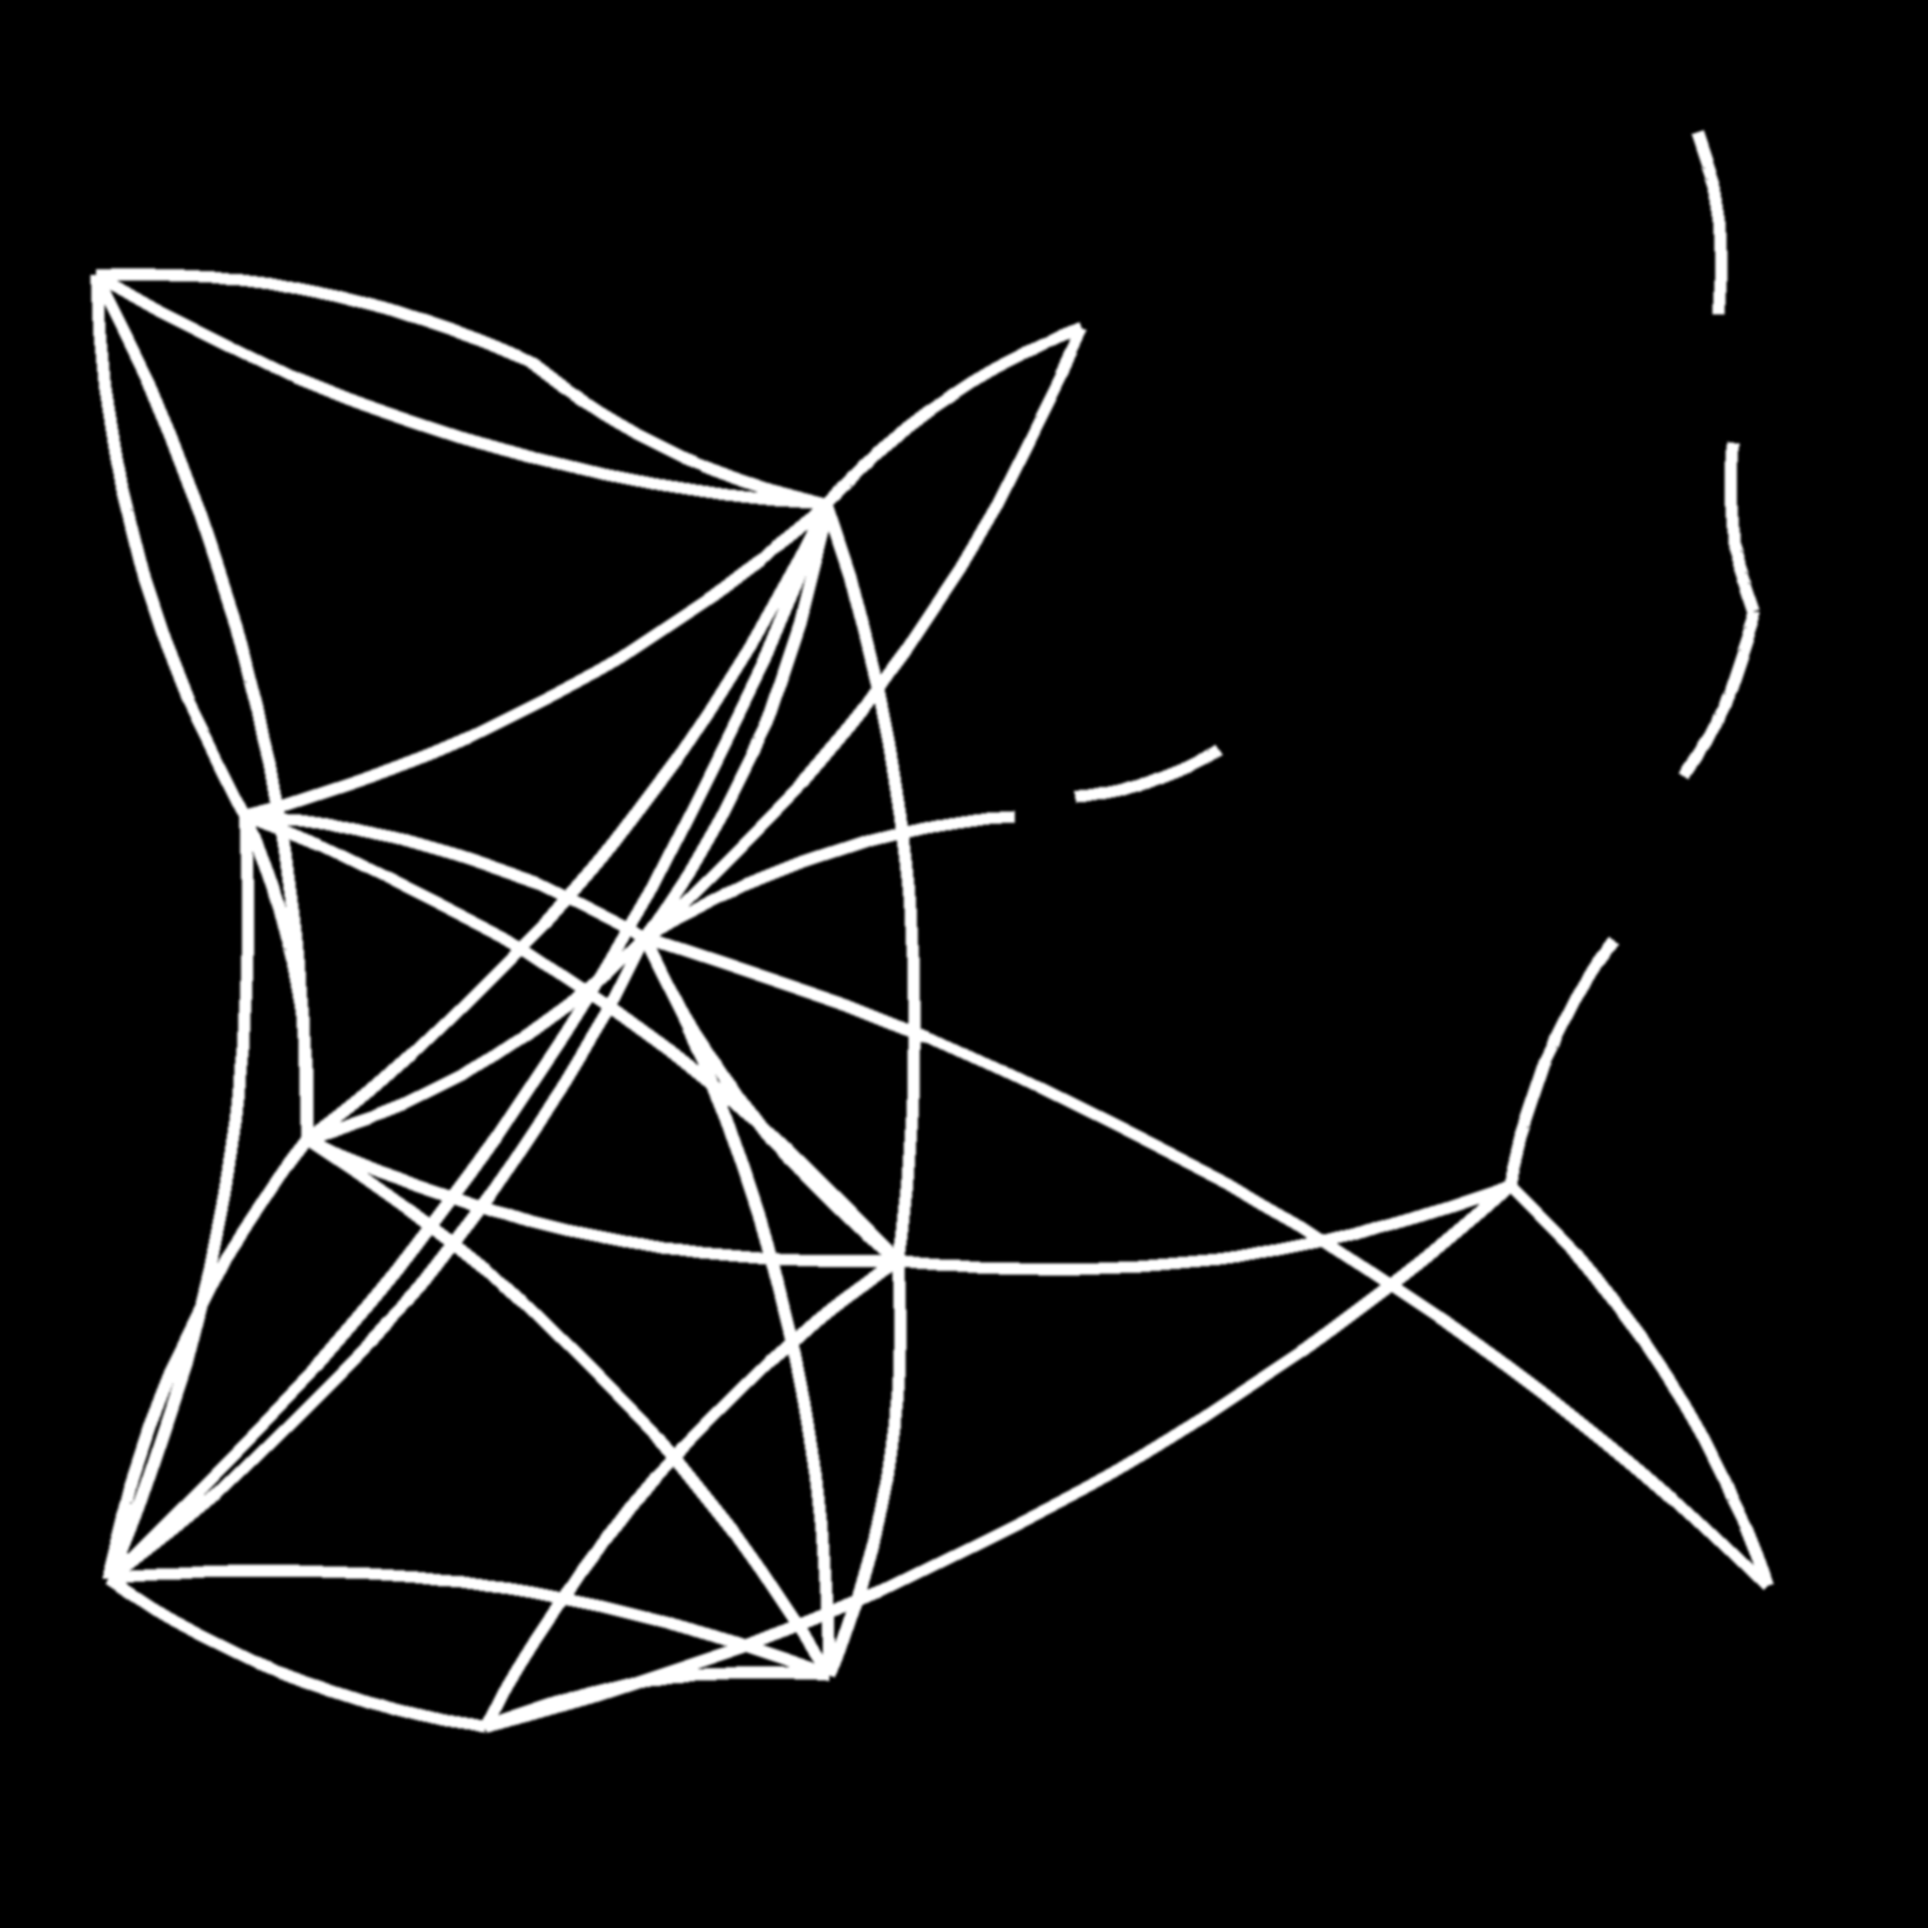
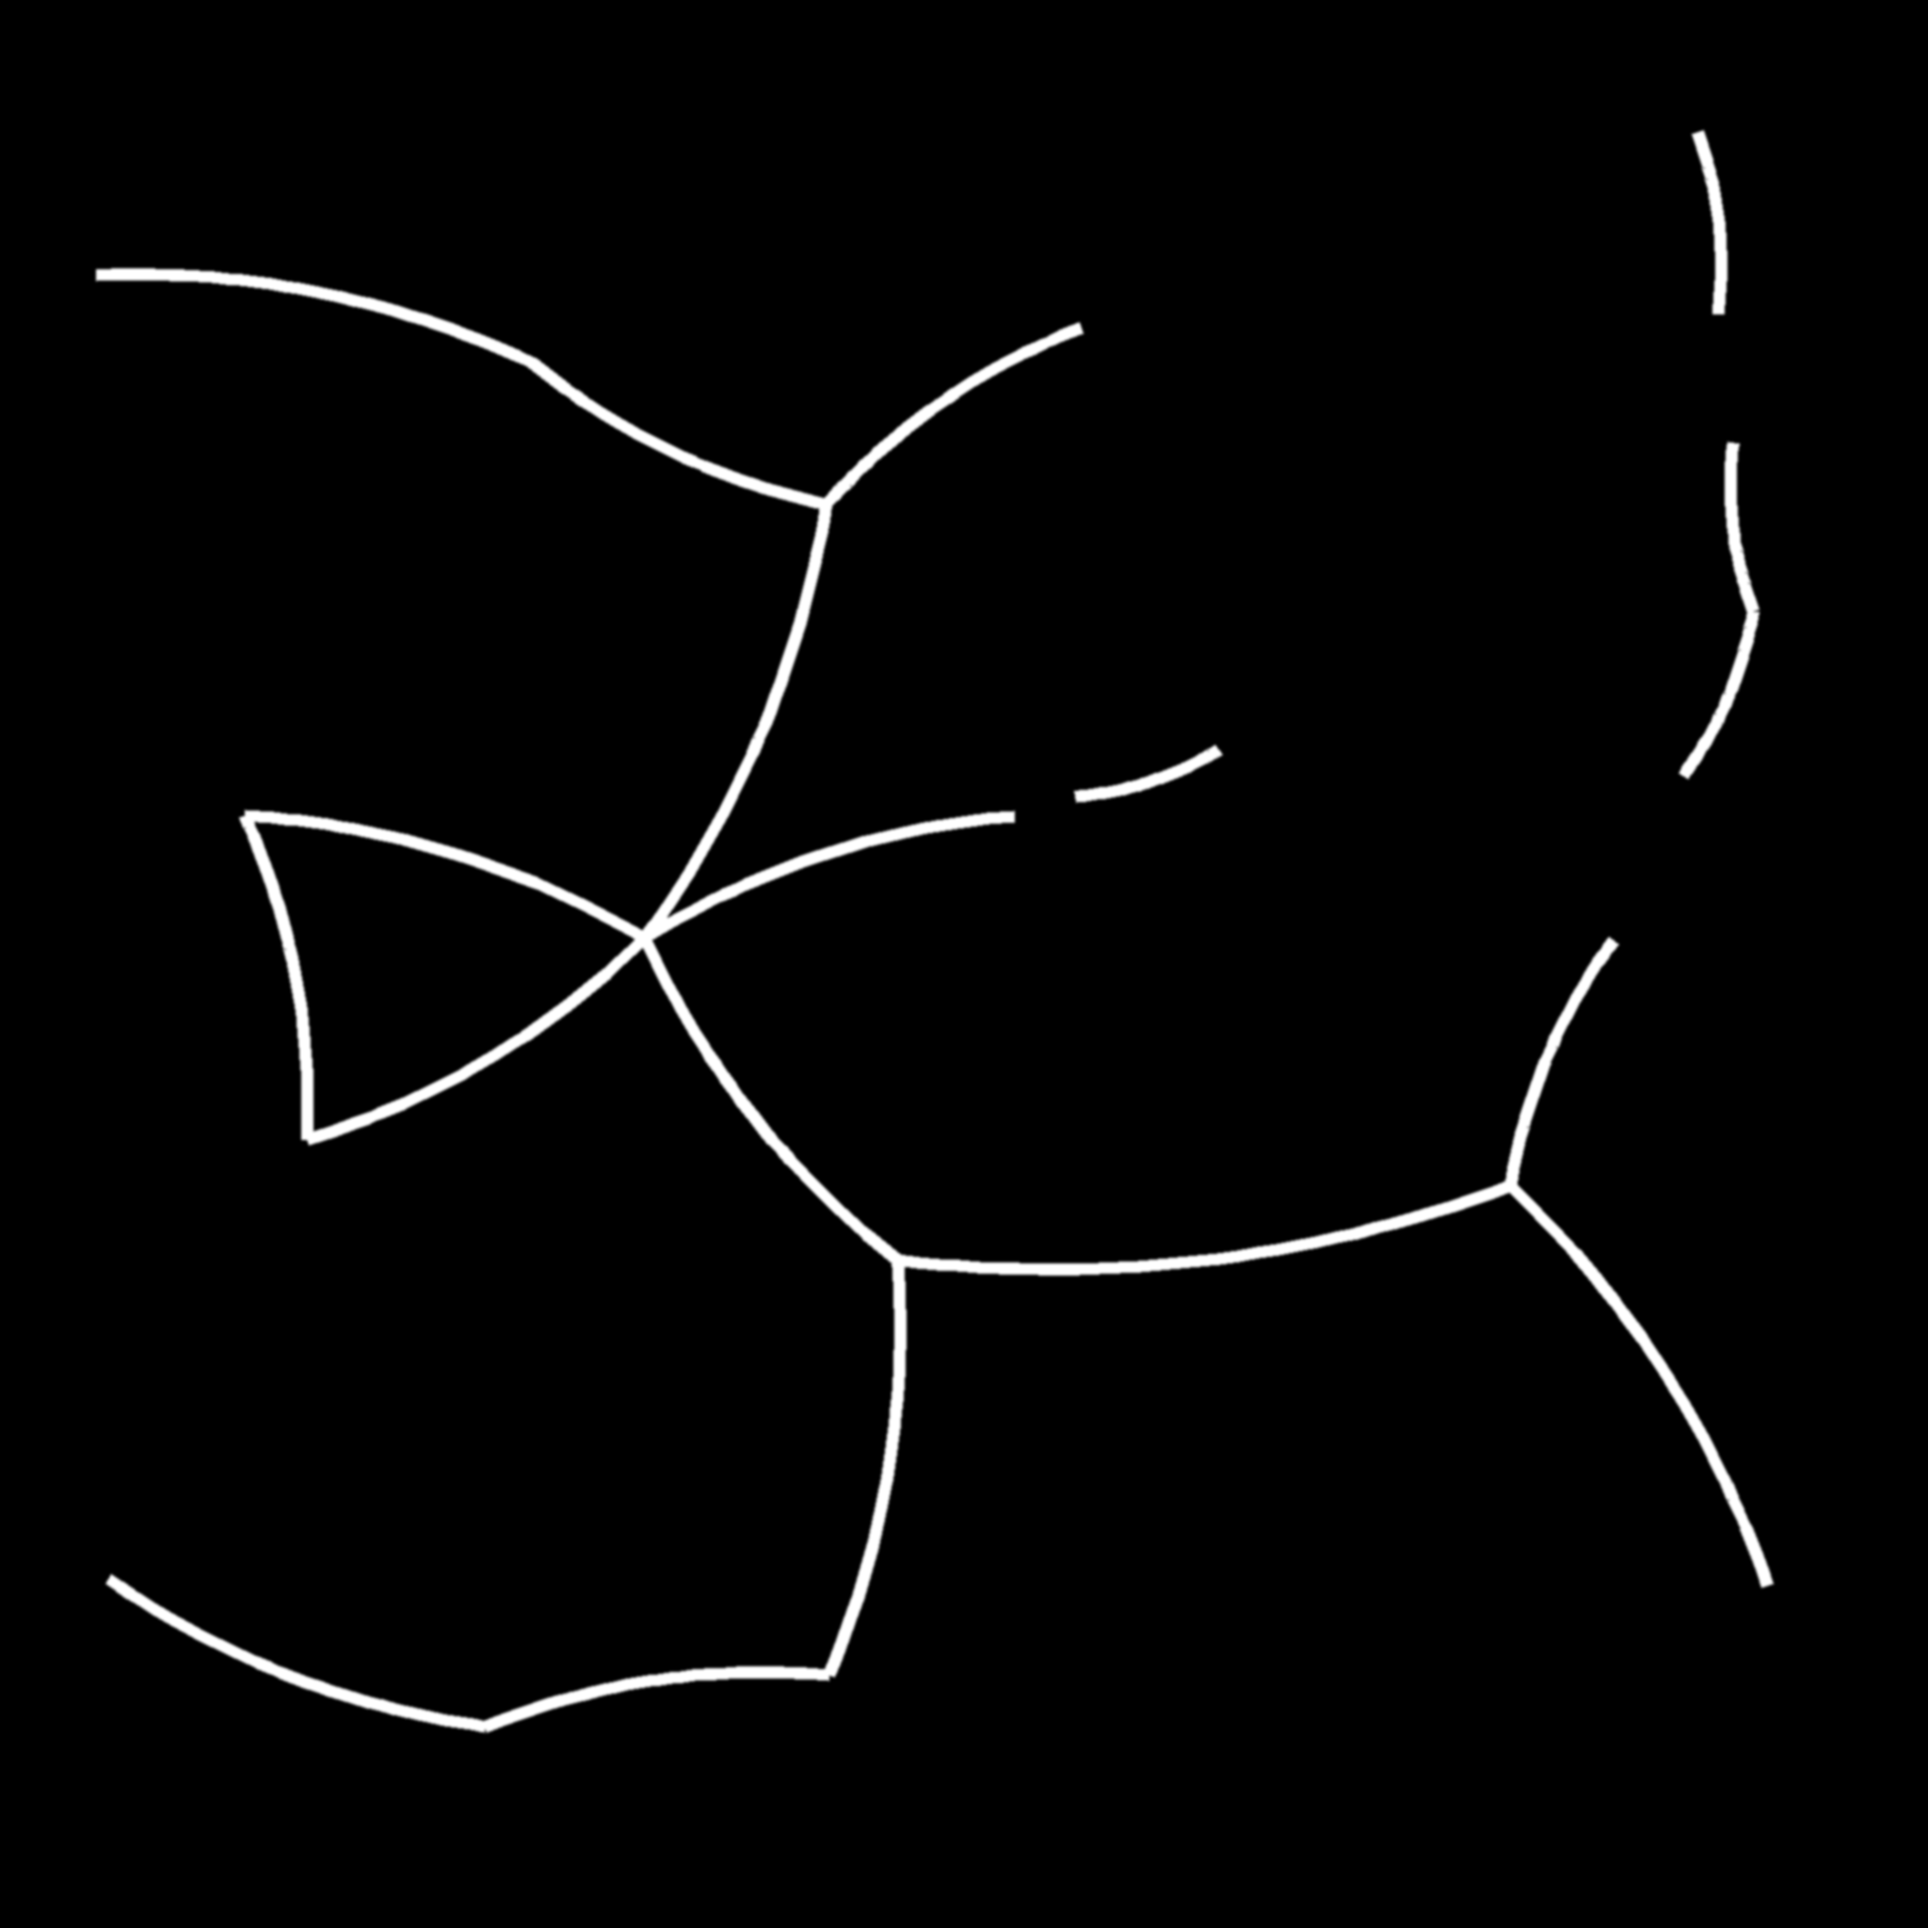
Render-Verbesserungen: Wasser in Schluchten, 3D-Bäume, Spannbaum-Wege, helleres Licht
- terrain_export.py: Wege zwischen berührenden Inseln als Spannbaum + kurze
  Extras statt Jeder-mit-Jedem (kein Wege-Spinnennetz mehr)
- blender_terrain.py: Wasserfläche am Schluchtboden (Flüsse), instanzierte
  Baumkronen aus layout.json, sattere Grasfarben, stärkere Sonne, AgX Punchy

Claude-Session: https://claude.ai/code/session_016t1XLcsyiJnULV34adhsRX

diff --git a/mapgen/blender_terrain.py b/mapgen/blender_terrain.py
@@ -103,8 +103,8 @@ def terrain_material(data_dir):
     n1.inputs["Detail"].default_value = 8.0
     grass_mix = nt.nodes.new("ShaderNodeMix")
     grass_mix.data_type = "RGBA"
-    grass_mix.inputs["A"].default_value = (0.055, 0.105, 0.026, 1)
-    grass_mix.inputs["B"].default_value = (0.165, 0.180, 0.055, 1)
+    grass_mix.inputs["A"].default_value = (0.045, 0.135, 0.030, 1)
+    grass_mix.inputs["B"].default_value = (0.120, 0.210, 0.055, 1)
     nt.links.new(n1.outputs["Fac"], grass_mix.inputs["Factor"])
     n2 = nt.nodes.new("ShaderNodeTexNoise")
     n2.inputs["Scale"].default_value = 320.0
@@ -113,7 +113,7 @@ def terrain_material(data_dir):
     grass_fine.data_type = "RGBA"
     grass_fine.inputs["Factor"].default_value = 0.5
     nt.links.new(grass_mix.outputs["Result"], grass_fine.inputs["A"])
-    grass_fine.inputs["B"].default_value = (0.17, 0.165, 0.05, 1)
+    grass_fine.inputs["B"].default_value = (0.14, 0.20, 0.06, 1)
     nt.links.new(n2.outputs["Fac"], grass_fine.inputs["Factor"])
 
     # --- Fels: geschichtetes Grau-Braun fuer Waende
@@ -334,13 +334,88 @@ def add_bridges(layout, h, mat):
             r.data.materials.append(mat)
 
 
+def add_water():
+    """Wasserflaeche am Schluchtboden: aus den Schluchten werden Fluesse."""
+    bpy.ops.mesh.primitive_plane_add(size=EXTENT * 1.02, location=(0, 0, 1.35))
+    plane = bpy.context.active_object
+    mat = bpy.data.materials.new("Water")
+    mat.use_nodes = True
+    nt = mat.node_tree
+    bsdf = nt.nodes["Principled BSDF"]
+    bsdf.inputs["Base Color"].default_value = (0.020, 0.075, 0.110, 1)
+    bsdf.inputs["Roughness"].default_value = 0.08
+    bsdf.inputs["Metallic"].default_value = 0.15
+    ripple = nt.nodes.new("ShaderNodeTexNoise")
+    ripple.inputs["Scale"].default_value = 55.0
+    ripple.inputs["Detail"].default_value = 8.0
+    ripple.inputs["Distortion"].default_value = 0.6
+    bump = nt.nodes.new("ShaderNodeBump")
+    bump.inputs["Strength"].default_value = 0.25
+    nt.links.new(ripple.outputs["Fac"], bump.inputs["Height"])
+    nt.links.new(bump.outputs["Normal"], bsdf.inputs["Normal"])
+    plane.data.materials.append(mat)
+
+
+def tree_material():
+    mat = bpy.data.materials.new("Tree")
+    mat.use_nodes = True
+    nt = mat.node_tree
+    bsdf = nt.nodes["Principled BSDF"]
+    bsdf.inputs["Roughness"].default_value = 0.9
+    n = nt.nodes.new("ShaderNodeTexNoise")
+    n.inputs["Scale"].default_value = 14.0
+    n.inputs["Detail"].default_value = 6.0
+    ramp = nt.nodes.new("ShaderNodeValToRGB")
+    ramp.color_ramp.elements[0].color = (0.018, 0.075, 0.020, 1)
+    ramp.color_ramp.elements[1].color = (0.060, 0.160, 0.045, 1)
+    nt.links.new(n.outputs["Fac"], ramp.inputs["Fac"])
+    nt.links.new(ramp.outputs["Color"], bsdf.inputs["Base Color"])
+    bump = nt.nodes.new("ShaderNodeBump")
+    bump.inputs["Strength"].default_value = 0.9
+    nt.links.new(n.outputs["Fac"], bump.inputs["Height"])
+    nt.links.new(bump.outputs["Normal"], bsdf.inputs["Normal"])
+    return mat
+
+
+def add_trees(layout, h, mat, max_trees=1400):
+    """Baumkronen als instanzierte, leicht verbeulte Kugeln (Top-Down
+    reicht die Krone — Staemme sind aus der Vogelperspektive unsichtbar)."""
+    size = layout["size"]
+    trees = layout.get("trees", [])
+    if len(trees) > max_trees:
+        rng = np.random.default_rng(1)
+        trees = [trees[i] for i in
+                 rng.choice(len(trees), max_trees, replace=False)]
+    bpy.ops.mesh.primitive_ico_sphere_add(subdivisions=2, radius=1.0)
+    proto = bpy.context.active_object
+    # Krone organisch verbeulen
+    for v in proto.data.vertices:
+        d = 1.0 + 0.18 * math.sin(v.co.x * 7.3) * math.cos(v.co.y * 5.1) \
+            + 0.12 * math.sin(v.co.z * 9.7)
+        v.co *= d
+    proto.data.materials.append(mat)
+    rng = np.random.default_rng(2)
+    for t in trees:
+        x, y = world_xy(t["x"], t["y"], size)
+        z = height_at(h, t["x"], t["y"])
+        s = 0.55 * t.get("scale", 1.0) * (0.8 + rng.random() * 0.5)
+        obj = proto.copy()          # geteiltes Mesh -> speicherschonend
+        obj.location = (x + rng.normal(0, 0.1), y + rng.normal(0, 0.1),
+                        z + s * 0.55)
+        obj.scale = (s, s, s * 0.75)
+        obj.rotation_euler = (0, 0, rng.random() * 6.28)
+        bpy.context.collection.objects.link(obj)
+    proto.hide_render = True
+    proto.hide_viewport = True
+
+
 def setup_light_camera(res):
     bpy.ops.object.light_add(type="SUN", location=(0, 0, 60))
     sun = bpy.context.active_object
-    sun.data.energy = 4.5
-    sun.data.angle = math.radians(1.2)
-    sun.rotation_euler = (math.radians(38), 0, math.radians(130))
-    sun.data.color = (1.0, 0.95, 0.86)
+    sun.data.energy = 6.5
+    sun.data.angle = math.radians(1.6)
+    sun.rotation_euler = (math.radians(34), 0, math.radians(130))
+    sun.data.color = (1.0, 0.96, 0.88)
 
     bpy.ops.object.camera_add(location=(0, 0, 80), rotation=(0, 0, 0))
     cam = bpy.context.active_object
@@ -358,8 +433,10 @@ def setup_light_camera(res):
     world = scene.world
     world.use_nodes = True
     bg = world.node_tree.nodes["Background"]
-    bg.inputs["Color"].default_value = (0.45, 0.55, 0.70, 1)
-    bg.inputs["Strength"].default_value = 0.35
+    bg.inputs["Color"].default_value = (0.50, 0.62, 0.80, 1)
+    bg.inputs["Strength"].default_value = 0.65
+    scene.view_settings.look = "AgX - Punchy"
+    scene.view_settings.exposure = 0.35
 
 
 def main():
@@ -379,9 +456,11 @@ def main():
     terrain = make_terrain(args.data, h)
     terrain.data.materials.append(terrain_material(args.data))
 
-    print("[3/5] Felsen und Bruecken ...")
+    print("[3/5] Felsen, Bruecken, Wasser, Baeume ...")
     add_rocks(layout, h, rock_material())
     add_bridges(layout, h, wood_material())
+    add_water()
+    add_trees(layout, h, tree_material())
 
     print("[4/5] Licht und Kamera ...")
     setup_light_camera(args.res)

diff --git a/mapgen/terrain_export.py b/mapgen/terrain_export.py
@@ -87,9 +87,34 @@ def main(size, seed, islands, out_dir):
         for (px, py) in ends:
             pdraw.line(bezier(px, py, cx, cy), fill=255, width=13,
                        joint="curve")
-    for a, b in touching:
-        pdraw.line(bezier(seeds[a][1], seeds[a][0], seeds[b][1], seeds[b][0]),
-                   fill=255, width=13, joint="curve")
+    # Beruehrende Inseln: Spannbaum + wenige kurze Extra-Wege statt
+    # Jeder-mit-Jedem (verhindert das Wege-Spinnennetz auf grossen Inseln)
+    if touching:
+        parent = list(range(len(seeds)))
+
+        def find(x):
+            while parent[x] != x:
+                parent[x] = parent[parent[x]]
+                x = parent[x]
+            return x
+
+        edges = sorted(
+            touching,
+            key=lambda e: math.hypot(seeds[e[0]][0] - seeds[e[1]][0],
+                                     seeds[e[0]][1] - seeds[e[1]][1]))
+        keep, extra_budget = [], max(1, len(edges) // 5)
+        for a, b in edges:
+            ra, rb = find(a), find(b)
+            if ra != rb:
+                parent[ra] = rb
+                keep.append((a, b))
+            elif extra_budget > 0:
+                keep.append((a, b))
+                extra_budget -= 1
+        for a, b in keep:
+            pdraw.line(bezier(seeds[a][1], seeds[a][0],
+                              seeds[b][1], seeds[b][0]),
+                       fill=255, width=13, joint="curve")
 
     plaza_img = Image.new("L", (size, size), 0)
     zdraw = ImageDraw.Draw(plaza_img)
